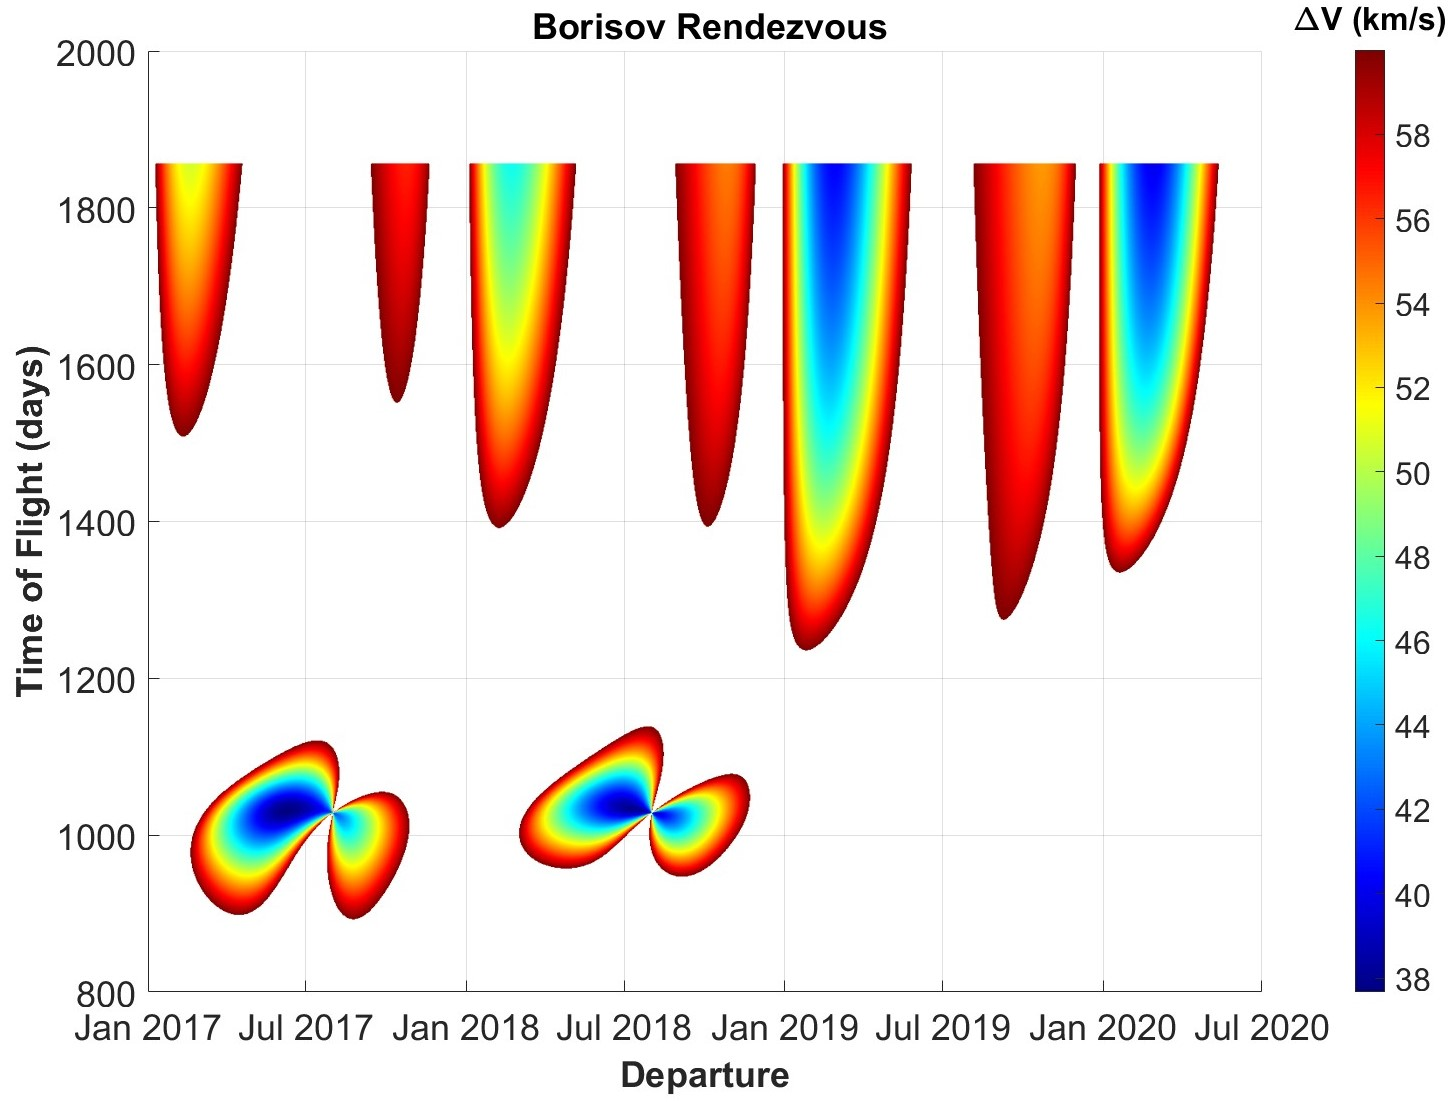
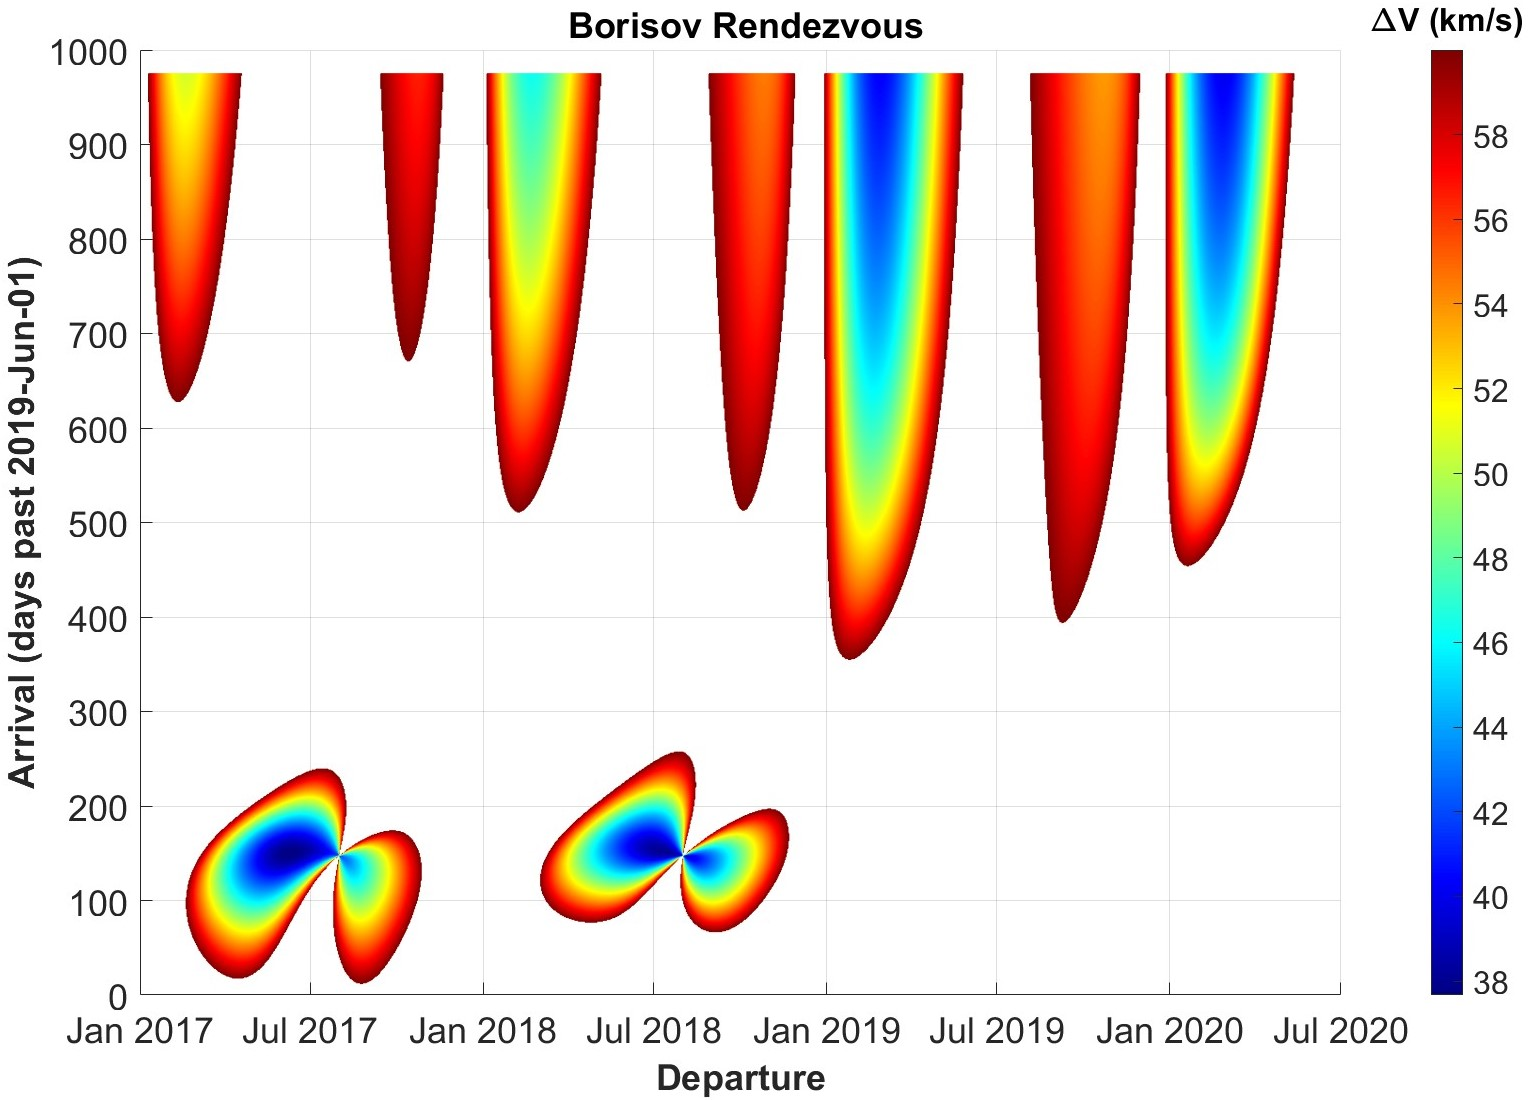
updates

diff --git a/Homework1/missionDesign.m b/Homework1/missionDesign.m
@@ -1,4 +1,4 @@
-%%% File Name: flybyMissionDesign.m 
+%%% File Name: missionDesign.m 
 % Written By: Brian Patrick 
 % Date Written: 2.19.2023 
 % Description: This file will be used to compute the DV's and pork chop
@@ -116,9 +116,7 @@ for i = 1: length(departureTimes)
         DV_rendezvous(j,i) = norm(v1 - earthState(i,4:6)) + norm(asteroidState(j,4:6) - v2);
         DV_flyby(j,i) = norm(v1 - earthState(i,4:6)); 
         exitList(j,i) = exit; 
-
     end
-
 end
 
 %% Filter Data 
@@ -139,7 +137,6 @@ DV_rendezvous(iidx) = NaN;
 
 % Convert Data for Plotting 
 departureTimes = departureTimes + initialDeparture;
-arrivalTimes = arrivalTimes + waitTime;
 
 figure(1)
 surf(departureTimes, arrivalTimes, DV_flyby, 'EdgeColor', 'interp', 'FaceColor','interp')
@@ -149,7 +146,7 @@ cb = colorbar;
 title(cb,'\DeltaV (km/s)', 'Fontweight', 'bold')
 
 xlabel('Departure', 'FontWeight','bold')
-ylabel('Time of Flight (days)', 'FontWeight','bold')
+ylabel('Arrival (days past 2017-Aug-01)', 'FontWeight','bold')
 view([0 90])
 set(findall(gca, '-Property', 'Fontsize'), 'Fontsize', 18)
 
@@ -162,18 +159,12 @@ cb = colorbar;
 title(cb,'\DeltaV (km/s)', 'Fontweight', 'bold')
 
 xlabel('Departure', 'FontWeight','bold')
-ylabel('Time of Flight (days)', 'FontWeight','bold')
+ylabel('Arrival (days past 2019-Jun-01)', 'FontWeight','bold')
 view([0 90])
 set(findall(gca, '-Property', 'Fontsize'), 'Fontsize', 18)
 
 %% Output Runtime 
 runtime = toc; 
 fprintf('Program Runtime: %f s \n', runtime)
-
-
-
-
-
- 
 
 

diff --git a/Homework1/asteroidTrajectories.m b/Homework1/asteroidTrajectories.m
@@ -1,8 +1,8 @@
-%%% File Name: homework1.m 
+%%% File Name: asteroidTrajectories.m
 %  Written By: Brian Patrick 
 %  Date Written: 2.6.2023 
-%  Description: This file is used to complete the assigned work for
-%               homework 1 in AE 502 - Advanced Orbital Mechanics 
+%  Description: This file is used to propagate the asteroid trajectories 
+%               for 'Oumuamua and Borisov. 
 %  ========================================================================
 close all; clear; clc;
 
